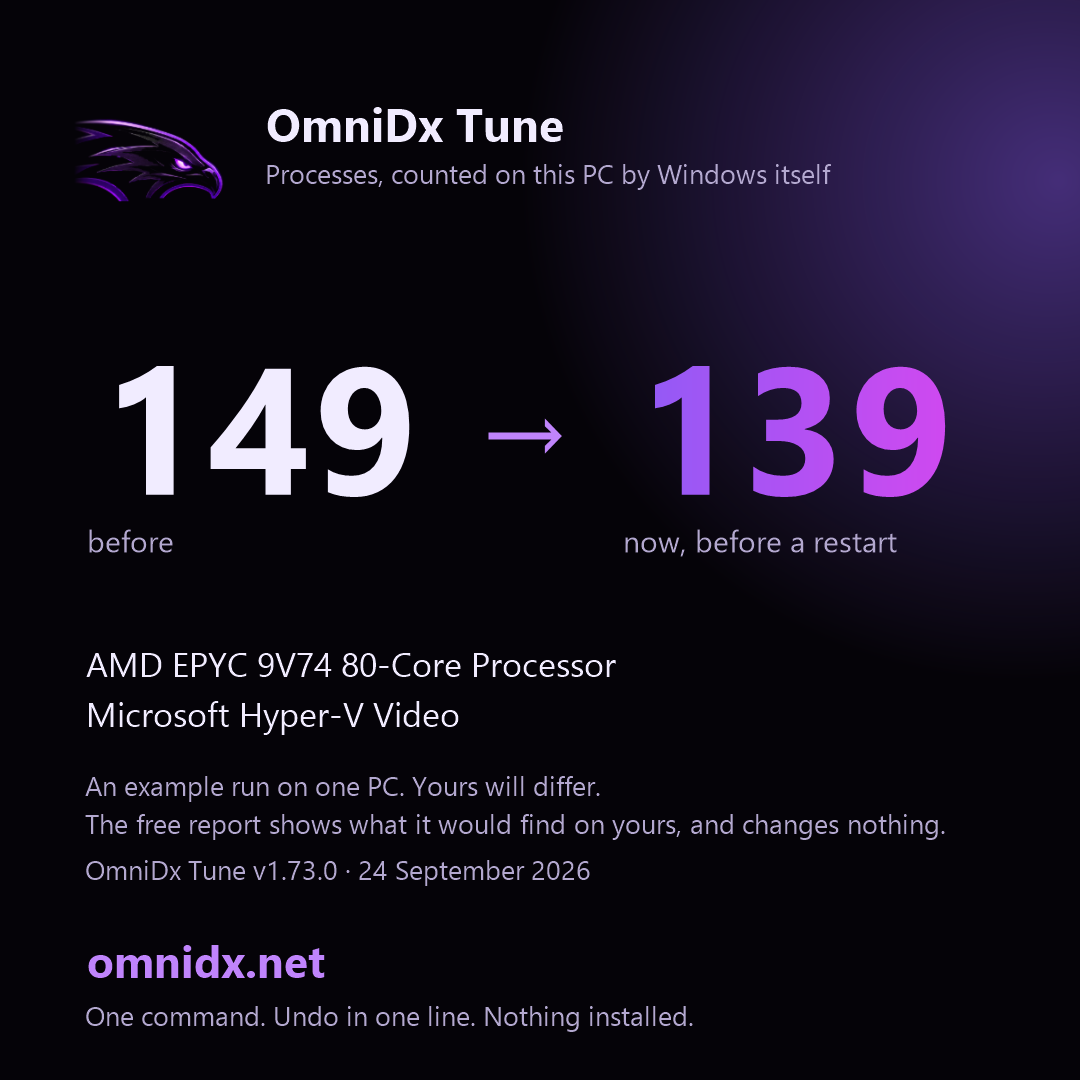
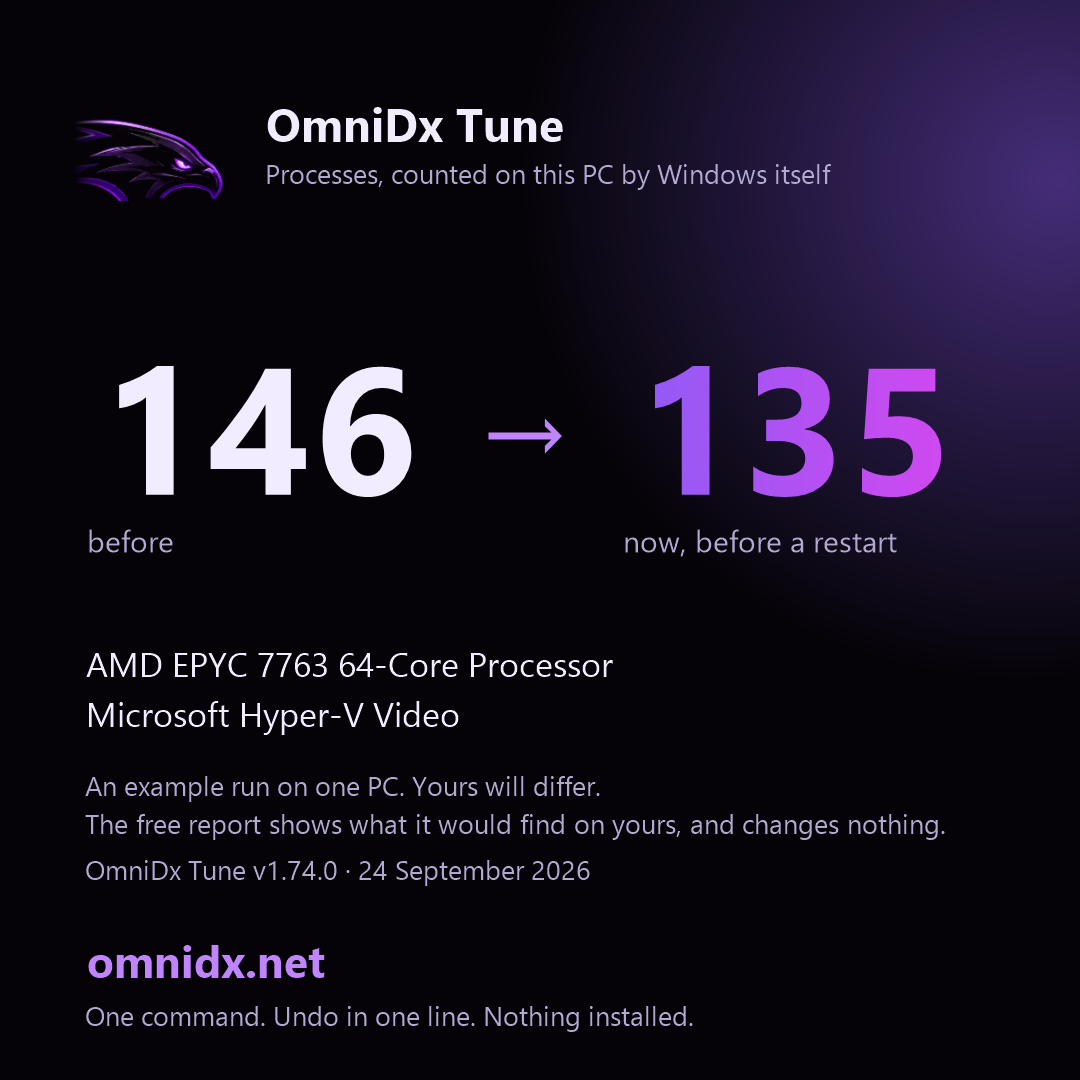
Windows check: the app window, the numbers, the log, and the script this run verified

diff --git a/studio/assets/ci-report.html b/studio/assets/ci-report.html
@@ -1,5 +1,5 @@
 <!doctype html><html lang="en"><head><meta charset="utf-8"><meta name="viewport" content="width=device-width,initial-scale=1">
-<title>OmniDx Tune report - 2026-09-24_12-37-11</title>
+<title>OmniDx Tune report - 2026-09-24_12-45-56</title>
 <style>
 body{margin:0;background:#050308;color:#f1ecff;font:15px/1.6 -apple-system,'Segoe UI',Roboto,system-ui,sans-serif}
 main{max-width:860px;margin:0 auto;padding:36px 20px 80px}
@@ -17,18 +17,18 @@ details{margin:10px 0;background:#0e0a17;border:1px solid #2a1f45;border-radius:
 details pre{font:12.5px/1.5 ui-monospace,Consolas,monospace;color:#b3a8cf;overflow:auto;max-height:420px;margin:10px 0 4px}
 .bios ul{list-style:none;padding-left:2px}.bios li{margin:8px 0;color:#f1ecff}.bios{background:#0e0a17;border:1px solid #2a1f45;border-radius:14px;padding:6px 18px}
 </style></head><body><main>
-<h1><img src="https://omnidx.net/studio/assets/icons/icon-192.png" alt="" width="44" height="44" style="vertical-align:middle;margin-right:10px" onerror="this.remove()">OmniDx Tune <span class="muted" style="font-size:16px">v1.73.0</span></h1>
-<p class="sub">Thursday, September 24, 2026 12:38 PM &middot; AMD EPYC 9V74 80-Core Processor &middot; Microsoft Hyper-V Video &middot; 16 GB &middot; Microsoft Corporation Virtual Machine</p>
-<div class="big"><div><b>149</b><span>processes before</span></div><div><b>139</b><span>now, before a restart</span></div><div><b>~70</b><span>target for this PC after a restart</span></div></div>
+<h1><img src="https://omnidx.net/studio/assets/icons/icon-192.png" alt="" width="44" height="44" style="vertical-align:middle;margin-right:10px" onerror="this.remove()">OmniDx Tune <span class="muted" style="font-size:16px">v1.74.0</span></h1>
+<p class="sub">Thursday, September 24, 2026 12:47 PM &middot; AMD EPYC 7763 64-Core Processor &middot; Microsoft Hyper-V Video &middot; 16 GB &middot; Microsoft Corporation Virtual Machine</p>
+<div class="big"><div><b>146</b><span>processes before</span></div><div><b>135</b><span>now, before a restart</span></div><div><b>~70</b><span>target for this PC after a restart</span></div></div>
 <p class='muted'>The card, for posting (the same numbers, on one picture): <code>ci-card.png</code></p><img src='ci-card.png' alt='Before and after, on a card' style='max-width:340px;width:100%;border-radius:14px;border:1px solid #2a1f45'>
 <p class="muted">Many of the "now" processes are only waiting to be stopped. The number after a restart is the one that counts; <code>C:\OmniDx\after-restart.txt</code> gets it at your next sign-in. Kept cut: a task at each sign-in puts back what a Windows update turns on; undo removes it.</p>
 <h2>Next steps</h2><ol><li>Restart. The services told to stop are still unwinding until you do, and the after-restart count lands in C:\OmniDx\after-restart.txt at your next sign-in, with the boot time of that start next to the one from before the tune.</li><li>BIOS: items 1 to 3 (memory profile, Re-Size BAR, CSM). Ten minutes, and the memory profile alone is the biggest free gain any PC has.</li><li>GPU control panel: low latency mode, power management and V-Sync, from the list below. Two minutes.</li><li>Launchers and overlays: the list below names the one or two settings in each that matter; the overlays are the usual cause of a stutter that &quot;came from nowhere&quot;.</li><li>Any time: $env:OMNIDX_MODE=&#39;status&#39;; irm omnidx.net/go.ps1 | iex shows what is still in place; undo is one line, and it is in this report.</li></ol>
-<h2>Before and after</h2><table><tr><th></th><th>Before</th><th>Now</th></tr><tr><td>Processes</td><td>149</td><td>139</td></tr><tr><td>Threads</td><td>1543</td><td>1453</td></tr><tr><td>Handles</td><td>50168</td><td>47155</td></tr><tr><td>Memory in use</td><td>2864 MB</td><td>2938 MB</td></tr><tr><td>Idle CPU</td><td>0.7%</td><td>0.8%</td></tr><tr><td>DPC time</td><td>0%</td><td>0%</td></tr></table>
-<h2>Gone, by name</h2><p class='muted'>Running before, not running now: spoolsv</p>
-<details><summary>Every process, before (58 names)</summary><pre>svchost                                  x81     1,203 MB
+<h2>Before and after</h2><table><tr><th></th><th>Before</th><th>Now</th></tr><tr><td>Processes</td><td>146</td><td>135</td></tr><tr><td>Threads</td><td>1457</td><td>1454</td></tr><tr><td>Handles</td><td>48904</td><td>46277</td></tr><tr><td>Memory in use</td><td>2793 MB</td><td>2909 MB</td></tr><tr><td>Idle CPU</td><td>0.7%</td><td>1.5%</td></tr><tr><td>DPC time</td><td>0%</td><td>0%</td></tr></table>
+<h2>Gone, by name</h2><p class='muted'>Running before, not running now: smartscreen, spoolsv</p>
+<details><summary>Every process, before (56 names)</summary><pre>svchost                                  x80     1,207 MB
 conhost                                  x4         34 MB
-taskhostw                                x3         59 MB
-WmiPrvSE                                 x3         62 MB
+taskhostw                                x3         67 MB
+WmiPrvSE                                 x3         60 MB
 csrss                                    x2         14 MB
 fontdrvhost                              x2         11 MB
 notepad                                  x2         59 MB
@@ -38,80 +38,78 @@ ctfmon                                   x1         25 MB
 DefenderSessionHelper                    x1          6 MB
 dockerd                                  x1         46 MB
 dwm                                      x1         76 MB
-explorer                                 x1        163 MB
-hosted-compute-agent                     x1         22 MB
+explorer                                 x1        160 MB
+hosted-compute-agent                     x1         19 MB
 Idle                                     x1          0 MB
 LsaIso                                   x1          4 MB
 lsass                                    x1         31 MB
 MpDefenderCoreService                    x1         29 MB
 mqsvc                                    x1         19 MB
 msdtc                                    x1         14 MB
-MsMpEng                                  x1        162 MB
+MsMpEng                                  x1        102 MB
 node                                     x1         43 MB
 OpenConsole                              x1         14 MB
 powershell                               x1        165 MB
-provjobd.exe2510926133                   x1         36 MB
-Registry                                 x1         76 MB
+provjobd.exe683823816                    x1         26 MB
+Registry                                 x1         45 MB
 Runner.Listener                          x1         71 MB
-Runner.Worker                            x1        105 MB
-RuntimeBroker                            x1         49 MB
-SearchHost                               x1        113 MB
+Runner.Worker                            x1        103 MB
+RuntimeBroker                            x1         47 MB
+SearchHost                               x1        109 MB
 Secure System                            x1         52 MB
 SecurityHealthService                    x1         12 MB
 ServiceFabricLocalClusterManager         x1         36 MB
-services                                 x1         12 MB
+services                                 x1         11 MB
 ShellHost                                x1         42 MB
-sihost                                   x1         42 MB
+sihost                                   x1         43 MB
 smartscreen                              x1         12 MB
 smss                                     x1          2 MB
 spoolsv                                  x1         22 MB
 sqlwriter                                x1         11 MB
 sshd                                     x1          9 MB
-StartMenuExperienceHost                  x1        133 MB
+StartMenuExperienceHost                  x1        130 MB
 System                                   x1          0 MB
-SystemPropertiesPerformance              x1         14 MB
 TiWorker                                 x1         31 MB
 TrustedInstaller                         x1         10 MB
 UserOOBEBroker                           x1         11 MB
 vmcompute                                x1         11 MB
 vmms                                     x1         33 MB
-WaAppAgent                               x1         86 MB
+WaAppAgent                               x1         85 MB
 WaSecAgentProv                           x1          5 MB
-WindowsAzureGuestAgent                   x1         70 MB
+WindowsAzureGuestAgent                   x1         65 MB
 WindowsTerminal                          x1         85 MB
 wininit                                  x1          9 MB
 winlogon                                 x1         13 MB
-wslservice                               x1         27 MB
-WUDFHost                                 x1         12 MB</pre></details><details><summary>Every process, after (58 names)</summary><pre>svchost                                  x71     1,082 MB
-conhost                                  x4         33 MB
-taskhostw                                x3         72 MB
-WmiPrvSE                                 x3         66 MB
+wslservice                               x1         29 MB</pre></details><details><summary>Every process, after (55 names)</summary><pre>svchost                                  x70     1,065 MB
+conhost                                  x4         34 MB
+taskhostw                                x3         66 MB
+WmiPrvSE                                 x3         67 MB
 csrss                                    x2         14 MB
 fontdrvhost                              x2         11 MB
 notepad                                  x2         59 MB
 SMSvcHost                                x2         50 MB
-AzureArcSysTray                          x1         19 MB
-ctfmon                                   x1         25 MB
+AzureArcSysTray                          x1         20 MB
+ctfmon                                   x1         31 MB
 DefenderSessionHelper                    x1          6 MB
 dllhost                                  x1         13 MB
 dockerd                                  x1         46 MB
 dwm                                      x1         76 MB
-explorer                                 x1        162 MB
-hosted-compute-agent                     x1         20 MB
+explorer                                 x1        159 MB
+hosted-compute-agent                     x1         17 MB
 Idle                                     x1          0 MB
 LsaIso                                   x1          4 MB
 lsass                                    x1         31 MB
 MpDefenderCoreService                    x1         29 MB
 mqsvc                                    x1         19 MB
 msdtc                                    x1         14 MB
-MsMpEng                                  x1        162 MB
+MsMpEng                                  x1         96 MB
 node                                     x1         41 MB
 OpenConsole                              x1         14 MB
-powershell                               x1        207 MB
-provjobd.exe2510926133                   x1         36 MB
+powershell                               x1        191 MB
+provjobd.exe683823816                    x1         23 MB
 Registry                                 x1         65 MB
-Runner.Listener                          x1         66 MB
-Runner.Worker                            x1         98 MB
+Runner.Listener                          x1         71 MB
+Runner.Worker                            x1        100 MB
 RuntimeBroker                            x1         47 MB
 SearchHost                               x1        109 MB
 Secure System                            x1         52 MB
@@ -119,27 +117,24 @@ SecurityHealthService                    x1         12 MB
 ServiceFabricLocalClusterManager         x1         36 MB
 services                                 x1         12 MB
 ShellHost                                x1         42 MB
-sihost                                   x1         42 MB
-smartscreen                              x1         12 MB
+sihost                                   x1         43 MB
 smss                                     x1          2 MB
 sqlwriter                                x1         11 MB
 sshd                                     x1          9 MB
 StartMenuExperienceHost                  x1        131 MB
 System                                   x1          0 MB
-SystemPropertiesPerformance              x1         14 MB
-TiWorker                                 x1         40 MB
+TiWorker                                 x1         39 MB
 TrustedInstaller                         x1         10 MB
 UserOOBEBroker                           x1         11 MB
 vmcompute                                x1         11 MB
-vmms                                     x1         34 MB
-WaAppAgent                               x1         86 MB
+vmms                                     x1         33 MB
+WaAppAgent                               x1         84 MB
 WaSecAgentProv                           x1          5 MB
-WindowsAzureGuestAgent                   x1         70 MB
+WindowsAzureGuestAgent                   x1         65 MB
 WindowsTerminal                          x1         85 MB
 wininit                                  x1          9 MB
 winlogon                                 x1         13 MB
-wslservice                               x1         27 MB
-WUDFHost                                 x1         12 MB</pre></details>
+wslservice                               x1         29 MB</pre></details>
 <h2>Kept, and why</h2><ul><li>Defender, the firewall, Windows Update, audio, networking: always</li><li>Themes: Windows 10 falls back to the classic look without it</li><li>vmicguestinterface: this is a virtual machine</li><li>vmicheartbeat: this is a virtual machine</li><li>vmickvpexchange: this is a virtual machine</li><li>vmicrdv: this is a virtual machine</li><li>vmicshutdown: this is a virtual machine</li><li>vmictimesync: this is a virtual machine</li><li>vmicvmsession: this is a virtual machine</li><li>vmicvss: this is a virtual machine</li></ul>
 <h2>Warnings (3)</h2><div class="warn"><ul><li>The GPU driver dates from Jun 2006. A current driver is worth more than most tweaks.</li><li>This looks like a virtual machine. The tune will run, but the numbers mean little here.</li><li>Could not make a restore point (This functionality is not supported on this operating system.). The undo script still records everything.</li></ul></div>
 <h2>BIOS checklist for Microsoft Corporation Virtual Machine</h2><div class="bios"><ul><li>How to get in: restart, then press Del or F2 while the logo shows.</li><li>Where things are: the Advanced / Overclocking pages for memory, the PCI or Chipset page for Above 4G / Re-Size BAR, the Boot page for CSM, the Security page for TPM and Secure Boot.</li><li>1. Memory profile: enable EXPO (or DOCP / A-XMP on older boards). Your RAM is running at the slow default until you do; this is the single biggest free gain on any PC. Pick the profile matching the speed printed on the sticks.</li><li>2. Re-Size BAR / Smart Access Memory: set Above 4G Decoding = Enabled, then Re-Size BAR Support = Auto/Enabled. Needs CSM off (next line). Worth 5-15% in many games on RTX 30/40/50 and RX 6000+.</li><li>3. CSM (Compatibility Support Module): Disabled. You already boot UEFI, so nothing depends on it, and Re-Size BAR needs it off.</li><li>4. Secure Boot: Enabled. Windows 11 and Vanguard expect it; on 10 it costs nothing. Set OS Type / Secure Boot Mode to Windows UEFI if asked.</li><li>5. TPM: not detected. Enable AMD fTPM (AMD) or Intel PTT (Intel) under Security / Trusted Computing. VALORANT on Windows 11 will not run without it.</li><li>6. Precision Boost Overdrive: Enabled (or Advanced with the Curve Optimizer at a modest negative offset like -15 all-core if you know your cooler). Never a positive voltage offset.</li><li>7. Global C-states / package C-states: Auto is fine. Disabling them buys nothing measurable in games and raises idle heat.</li><li>8. Fast Boot: Enabled. Full Screen Logo / Boot Logo: Disabled (a second off every boot).</li><li>9. Fan curves: set the CPU fan to reach 100% by 80 C and the case fans to a steady ramp. Sustained boost needs airflow more than anything.</li><li>10. Onboard devices you do not use: serial port, Wi-Fi/Bluetooth if wired, onboard audio if you use USB audio, RGB controllers. Each one removed is an interrupt source gone.</li><li>11. HPET: leave at default. The &#39;disable HPET&#39; tweak is from 2013 and hurts more than it helps on modern Windows.</li><li>12. Virtualisation (SVM / VT-x): leave on if you use WSL, Docker, an emulator, or play VALORANT or on FACEIT (their anti-cheat needs it, with IOMMU); otherwise off saves a little scheduling overhead.</li><li>After saving: Windows will boot normally. If it does not (rare, usually CSM), go back in and re-enable the last thing you changed.</li><li>Do not update the BIOS unless the vendor&#39;s notes mention a fix for your exact problem; a failed flash is the one thing here that cannot be undone from Windows.</li></ul></div>
@@ -147,8 +142,8 @@ WUDFHost                                 x1         12 MB</pre></details>
 <h2>Launchers, overlays and helper apps</h2><ul><li>None of the usual launchers, overlays or peripheral suites found. The same notes apply the day you install one; run the command again and they appear here.</li></ul>
 <h2>Left by other tools</h2><p class="muted">The tune changes none of these; it names them, with the way back.</p><ul><li>Nothing found: no other tool has left Defender, Windows Update, SmartScreen, User Account Control or the CPU mitigations switched off on this PC.</li></ul>
 <h2>Per game</h2><p class='muted'>Not found on this PC (the same profile applies if you install them): Fortnite, VALORANT, Counter-Strike 2, Marvel Rivals, Apex Legends, Call of Duty (Warzone / MW), Overwatch 2, Rainbow Six Siege, Rocket League, Minecraft, Roblox, League of Legends, GTA V / Online, Rust, Escape from Tarkov, PUBG, The Finals, Dota 2, Battlefield 6, Deadlock, Delta Force, ARC Raiders, Helldivers 2, Warframe, Destiny 2, Halo Infinite, Dead by Daylight, Hunt: Showdown 1896, War Thunder, World of Warcraft, Squad, Battlefield 2042, EA Sports FC 26, NBA 2K26, Palworld, Path of Exile 2, Diablo IV, Monster Hunter Wilds, Elden Ring / Nightreign, Cyberpunk 2077, Baldur&#39;s Gate 3, Star Citizen, DayZ, Arma Reforger, Hell Let Loose, Genshin Impact, Ready or Not, Final Fantasy XIV, STALKER 2, Sea of Thieves</p>
-<h2>What was done</h2><h4>Safety first</h4><div class='did'>Registry and service list backed up to C:\OmniDx\backup\2026-09-24_12-37-11</div><div class='did'>undo.ps1 written to C:\OmniDx\undo</div><h4>Startup apps</h4><div class='did'>off: AzureArcSetup</div><div class='did'>off: Service Fabric Local Cluster Manager (Startup folder)</div><h4>Services</h4><div class='did'>dmwappushservice -&gt; disabled  (telemetry push)</div><div class='did'>WerSvc -&gt; disabled  (error reporting)</div><div class='did'>wercplsupport -&gt; disabled  (error reporting)</div><div class='did'>PcaSvc -&gt; disabled  (compatibility assistant)</div><div class='did'>lfsvc -&gt; disabled  (geolocation)</div><div class='did'>RemoteRegistry -&gt; disabled  (remote registry)</div><div class='did'>WMPNetworkSvc -&gt; disabled  (media sharing)</div><div class='did'>TrkWks -&gt; disabled  (link tracking)</div><div class='did'>WalletService -&gt; disabled  (wallet)</div><div class='did'>wisvc -&gt; disabled  (insider program)</div><div class='did'>SEMgrSvc -&gt; disabled  (payments and NFC)</div><div class='did'>TapiSrv -&gt; disabled  (telephony)</div><div class='did'>SharedAccess -&gt; disabled  (internet connection sharing)</div><div class='did'>edgeupdate -&gt; manual  (Edge updater (runs on demand))</div><div class='did'>WbioSrvc -&gt; disabled  (biometrics)</div><div class='did'>SysMain already disabled; left that way</div><div class='did'>WSearch already disabled; left that way</div><div class='did'>Spooler -&gt; disabled  (print spooler)</div><div class='did'>bthserv -&gt; disabled  (bluetooth)</div><div class='did'>WlanSvc -&gt; disabled  (wi-fi)</div><div class='did'>CDPSvc -&gt; manual  (connected devices)</div><div class='did'>CDPUserSvc already disabled; left that way</div><div class='did'>OneSyncSvc already disabled; left that way</div><div class='did'>PimIndexMaintenanceSvc already disabled; left that way</div><div class='did'>UnistoreSvc already disabled; left that way</div><div class='did'>UserDataSvc already disabled; left that way</div><div class='did'>SSDPSRV already disabled; left that way</div><div class='did'>upnphost already disabled; left that way</div><div class='did'>DPS -&gt; manual  (diagnostic policy)</div><div class='did'>SCardSvr -&gt; disabled  (smart card)</div><div class='did'>ScDeviceEnum -&gt; disabled  (smart card)</div><div class='did'>CertPropSvc -&gt; disabled  (smart card)</div><div class='did'>iphlpsvc -&gt; manual  (ipv6 tunnels)</div><div class='did'>cbdhsvc -&gt; manual  (clipboard history)</div><div class='did'>WpnService -&gt; manual  (push notifications)</div><div class='did'>WpnUserService -&gt; manual  (push notifications)</div><div class='did'>SNMPTRAP -&gt; disabled  (SNMP traps)</div><div class='did'>workfolderssvc -&gt; disabled  (Work Folders sync)</div><h4>Scheduled tasks</h4><div class='did'>PcaPatchDbTask</div><div class='did'>CreateObjectTask</div><div class='did'>Device</div><div class='did'>Device User</div><div class='did'>LoginCheck</div><div class='did'>WindowsActionDialog</div><div class='did'>OobeDiscovery</div><div class='did'>Diagnostics</div><div class='did'>UsageDataFlushing</div><div class='did'>UsageDataReporting</div><div class='did'>Registration</div><div class='did'>IndexerAutomaticMaintenance</div><div class='did'>Storage Tiers Management Initialization</div><div class='did'>UPnPHostConfig</div><div class='did'>ResolutionHost</div><div class='did'>UpdateLibrary</div><div class='did'>Work Folders Logon Synchronization</div><div class='did'>Work Folders Maintenance Work</div><h4>Preinstalled apps</h4><div class='did'>Microsoft.WindowsFeedbackHub</div><h4>Debloat</h4><div class='did'>removed Steps Recorder (screenshots every click, retired by Microsoft)</div><div class='did'>removed the 2009 Windows Media Player (the Store one stays)</div><div class='did'>removed Math Input Panel</div><div class='did'>removed Internet Explorer 11</div><div class='did'>off: Work Folders (corporate sync)</div><div class='did'>Edge: shopping assistant, recommendations, Spotlight, feedback prompts and reporting off</div><div class='did'>Kept gone: consumer features, suggested apps, account nags and the &#39;finish setting up&#39; screen are off by policy</div><h4>Telemetry, background activity, the shell</h4><div class='did'>Telemetry, the advertising id, activity history, suggestions, Bing in Start, Recall and Edge&#39;s reporting off; background apps off; widgets, news, Copilot and Cortana off; Game DVR off, Game Mode on; the classic right-click menu on 11</div><h4>System tuning</h4><div class='did'>NTFS last-access stamps off</div><div class='did'>NTFS allowed more memory for its cache</div><div class='did'>Defender&#39;s scheduled scans already capped at 5% of the CPU, lower than the tune&#39;s 25%: left as it is</div><h4>The OmniDx power plan</h4><div class='did'>2 plan setting(s) this PC does not have were skipped.</div><div class='did'>OmniDx plan created and active: CPU 100/100, boost aggressive, energy preference on performance, no core parking, no throttle states on a desktop, PCIe, USB and Wi-Fi power saving off, no sleep on mains.</div><h4>Network</h4><div class='did'>TCP: autotuning normal, ECN and timestamps off, receive-side scaling on, segment coalescing off, CTCP.</div><div class='did'>Ethernet 4: Interrupt Moderation off</div><div class='did'>Ethernet 4: Nagle off, power saving off</div><div class='did'>Ethernet 3: Nagle off, power saving off</div><h4>Discord, Spotify, browsers</h4><div class='did'>Chrome: no background mode, hardware acceleration on</div><div class='did'>Edge: no startup boost, no background mode, hardware acceleration on</div><h4>Game profiles</h4><div class='did'>No listed game found on the usual drives; the CPU-priority profiles are in place for when one is installed.</div><h4>Cleanup</h4><div class='did'>Temp files, the Windows Update download cache and the peer-to-peer update cache cleared: about 305 MB back.</div><h4>Keeping it cut</h4><div class='did'>Task &#39;OmniDx keep&#39; runs three minutes after sign-in, puts back whatever an update turned on, notes that start&#39;s boot time and writes card-after-restart.png with that start&#39;s count. Log: C:\OmniDx\keep-log.txt. Undo removes it.</div>
-<h2>Undo</h2><p>Administrator PowerShell: <code>powershell -ExecutionPolicy Bypass -File C:\OmniDx\undo\undo.ps1</code><br>No restore point was made on this run (see the warnings); the undo script is the way back.<br>Changes recorded in <code>C:\OmniDx\undo\changes-2026-09-24_12-37-11.json</code>.</p>
+<h2>What was done</h2><h4>Safety first</h4><div class='did'>Registry and service list backed up to C:\OmniDx\backup\2026-09-24_12-45-56</div><div class='did'>undo.ps1 written to C:\OmniDx\undo</div><h4>Startup apps</h4><div class='did'>off: AzureArcSetup</div><div class='did'>off: Service Fabric Local Cluster Manager (Startup folder)</div><h4>Services</h4><div class='did'>dmwappushservice -&gt; disabled  (telemetry push)</div><div class='did'>WerSvc -&gt; disabled  (error reporting)</div><div class='did'>wercplsupport -&gt; disabled  (error reporting)</div><div class='did'>PcaSvc -&gt; disabled  (compatibility assistant)</div><div class='did'>lfsvc -&gt; disabled  (geolocation)</div><div class='did'>RemoteRegistry -&gt; disabled  (remote registry)</div><div class='did'>WMPNetworkSvc -&gt; disabled  (media sharing)</div><div class='did'>TrkWks -&gt; disabled  (link tracking)</div><div class='did'>WalletService -&gt; disabled  (wallet)</div><div class='did'>wisvc -&gt; disabled  (insider program)</div><div class='did'>SEMgrSvc -&gt; disabled  (payments and NFC)</div><div class='did'>TapiSrv -&gt; disabled  (telephony)</div><div class='did'>SharedAccess -&gt; disabled  (internet connection sharing)</div><div class='did'>edgeupdate -&gt; manual  (Edge updater (runs on demand))</div><div class='did'>WbioSrvc -&gt; disabled  (biometrics)</div><div class='did'>SysMain already disabled; left that way</div><div class='did'>WSearch already disabled; left that way</div><div class='did'>Spooler -&gt; disabled  (print spooler)</div><div class='did'>bthserv -&gt; disabled  (bluetooth)</div><div class='did'>WlanSvc -&gt; disabled  (wi-fi)</div><div class='did'>CDPSvc -&gt; manual  (connected devices)</div><div class='did'>CDPUserSvc already disabled; left that way</div><div class='did'>OneSyncSvc already disabled; left that way</div><div class='did'>PimIndexMaintenanceSvc already disabled; left that way</div><div class='did'>UnistoreSvc already disabled; left that way</div><div class='did'>UserDataSvc already disabled; left that way</div><div class='did'>SSDPSRV already disabled; left that way</div><div class='did'>upnphost already disabled; left that way</div><div class='did'>DPS -&gt; manual  (diagnostic policy)</div><div class='did'>SCardSvr -&gt; disabled  (smart card)</div><div class='did'>ScDeviceEnum -&gt; disabled  (smart card)</div><div class='did'>CertPropSvc -&gt; disabled  (smart card)</div><div class='did'>iphlpsvc -&gt; manual  (ipv6 tunnels)</div><div class='did'>cbdhsvc -&gt; manual  (clipboard history)</div><div class='did'>WpnService -&gt; manual  (push notifications)</div><div class='did'>WpnUserService -&gt; manual  (push notifications)</div><div class='did'>SNMPTRAP -&gt; disabled  (SNMP traps)</div><div class='did'>workfolderssvc -&gt; disabled  (Work Folders sync)</div><h4>Scheduled tasks</h4><div class='did'>PcaPatchDbTask</div><div class='did'>CreateObjectTask</div><div class='did'>Device</div><div class='did'>Device User</div><div class='did'>LoginCheck</div><div class='did'>WindowsActionDialog</div><div class='did'>OobeDiscovery</div><div class='did'>Diagnostics</div><div class='did'>UsageDataFlushing</div><div class='did'>UsageDataReporting</div><div class='did'>Registration</div><div class='did'>IndexerAutomaticMaintenance</div><div class='did'>Storage Tiers Management Initialization</div><div class='did'>UPnPHostConfig</div><div class='did'>ResolutionHost</div><div class='did'>UpdateLibrary</div><div class='did'>Work Folders Logon Synchronization</div><div class='did'>Work Folders Maintenance Work</div><h4>Preinstalled apps</h4><div class='did'>Microsoft.WindowsFeedbackHub</div><h4>Debloat</h4><div class='did'>removed Steps Recorder (screenshots every click, retired by Microsoft)</div><div class='did'>removed the 2009 Windows Media Player (the Store one stays)</div><div class='did'>removed Math Input Panel</div><div class='did'>removed Internet Explorer 11</div><div class='did'>off: Work Folders (corporate sync)</div><div class='did'>Edge: shopping assistant, recommendations, Spotlight, feedback prompts and reporting off</div><div class='did'>Kept gone: consumer features, suggested apps, account nags and the &#39;finish setting up&#39; screen are off by policy</div><h4>Telemetry, background activity, the shell</h4><div class='did'>Telemetry, the advertising id, activity history, suggestions, Bing in Start, Recall and Edge&#39;s reporting off; background apps off; widgets, news, Copilot and Cortana off; Game DVR off, Game Mode on; the classic right-click menu on 11</div><h4>System tuning</h4><div class='did'>NTFS last-access stamps off</div><div class='did'>NTFS allowed more memory for its cache</div><div class='did'>Defender&#39;s scheduled scans already capped at 5% of the CPU, lower than the tune&#39;s 25%: left as it is</div><h4>The OmniDx power plan</h4><div class='did'>2 plan setting(s) this PC does not have were skipped.</div><div class='did'>OmniDx plan created and active: CPU 100/100, boost aggressive, energy preference on performance, no core parking, no throttle states on a desktop, PCIe, USB and Wi-Fi power saving off, no sleep on mains.</div><h4>Network</h4><div class='did'>TCP: autotuning normal, ECN and timestamps off, receive-side scaling on, segment coalescing off, CTCP.</div><div class='did'>Ethernet 3: Nagle off, power saving off</div><div class='did'>Ethernet 4: Interrupt Moderation off</div><div class='did'>Ethernet 4: Nagle off, power saving off</div><h4>Discord, Spotify, browsers</h4><div class='did'>Chrome: no background mode, hardware acceleration on</div><div class='did'>Edge: no startup boost, no background mode, hardware acceleration on</div><h4>Game profiles</h4><div class='did'>No listed game found on the usual drives; the CPU-priority profiles are in place for when one is installed.</div><h4>Cleanup</h4><div class='did'>Temp files, the Windows Update download cache and the peer-to-peer update cache cleared: about 374 MB back.</div><h4>Keeping it cut</h4><div class='did'>Task &#39;OmniDx keep&#39; runs three minutes after sign-in, puts back whatever an update turned on, notes that start&#39;s boot time and writes card-after-restart.png with that start&#39;s count. Log: C:\OmniDx\keep-log.txt. Undo removes it.</div>
+<h2>Undo</h2><p>Administrator PowerShell: <code>powershell -ExecutionPolicy Bypass -File C:\OmniDx\undo\undo.ps1</code><br>No restore point was made on this run (see the warnings); the undo script is the way back.<br>Changes recorded in <code>C:\OmniDx\undo\changes-2026-09-24_12-45-56.json</code>.</p>
 <h2>Status, any time</h2><p>What is still in place, what an update put back, the keep task and the after-restart count: <code>$env:OMNIDX_MODE='status'; irm omnidx.net/go.ps1 | iex</code><br><span class="muted">README.txt in C:\OmniDx says what each file there is.</span></p>
 <p class="muted" style="margin-top:40px">omnidx.net &middot; one payment, one PC, undo in one line.</p>
 </main></body></html>
